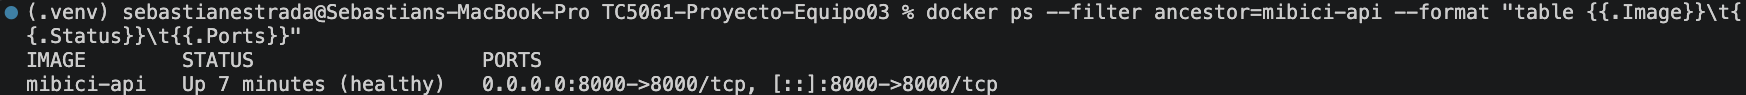
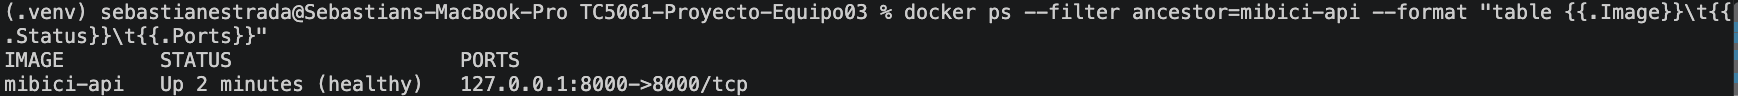
fix(make): publicar el puerto de la API solo en 127.0.0.1

diff --git a/README.md b/README.md
@@ -485,15 +485,17 @@ make api                    # opcional: levanta la API localmente con uvicorn si
 
 `make container` toma `MLFLOW_TRACKING_URI` del `.env` y cambia `127.0.0.1` por
 `host.docker.internal`, así que no hace falta escribir la dirección. Sin `MODELO_URI` ni
-`MODELO_URI_P1`, la API carga el `champion` de cada pregunta. El contenedor ocupa la terminal con
-sus logs, que deben decir `Modelo cargado` para los dos modelos, y se detiene con Ctrl+C.
+`MODELO_URI_P1`, la API carga el `champion` de cada pregunta. El puerto se publica solo en
+`127.0.0.1`, así que la API responde en esta computadora y no en la red local. El contenedor ocupa
+la terminal con sus logs, que deben decir `Modelo cargado` para los dos modelos, y se detiene con
+Ctrl+C.
 
 O directamente con los comandos de `docker`:
 
 ```bash
 docker build -t mibici-api .
 
-docker run --rm -p 8000:8000 \
+docker run --rm -p 127.0.0.1:8000:8000 \
   --add-host=host.docker.internal:host-gateway \
   -e MLFLOW_TRACKING_URI=http://host.docker.internal:5001 \
   -e MODELO_URI=models:/mibici-equipo03-p2-riesgo@champion \
@@ -504,7 +506,7 @@ docker run --rm -p 8000:8000 \
 | Parámetro | Para qué sirve |
 |---|---|
 | `--rm` | Elimina el contenedor al detenerlo |
-| `-p 8000:8000` | Publica el puerto `8000` de FastAPI en `http://127.0.0.1:8000` |
+| `-p 127.0.0.1:8000:8000` | Publica el puerto `8000` de FastAPI solo en esta computadora (`http://127.0.0.1:8000`). Sin `127.0.0.1:`, Docker lo abre en todas las interfaces y cualquier equipo de la red local puede llamar a la API. Dentro del contenedor, uvicorn sigue en `0.0.0.0` para recibir lo que Docker le pasa |
 | `--add-host=host.docker.internal:host-gateway` | Mapea `host.docker.internal` a la IP del host (necesario en Linux; Docker Desktop en macOS y Windows lo define automáticamente) |
 | `-e MLFLOW_TRACKING_URI=...` | Dirección del servidor de MLflow vista desde dentro del contenedor (`http://host.docker.internal:5001` en Docker; con Podman usar `http://host.containers.internal:5001`) |
 | `-e MODELO_URI=...` | Modelo y alias (o versión/ruta) de P2 (riesgo) que la API descarga al arrancar |
